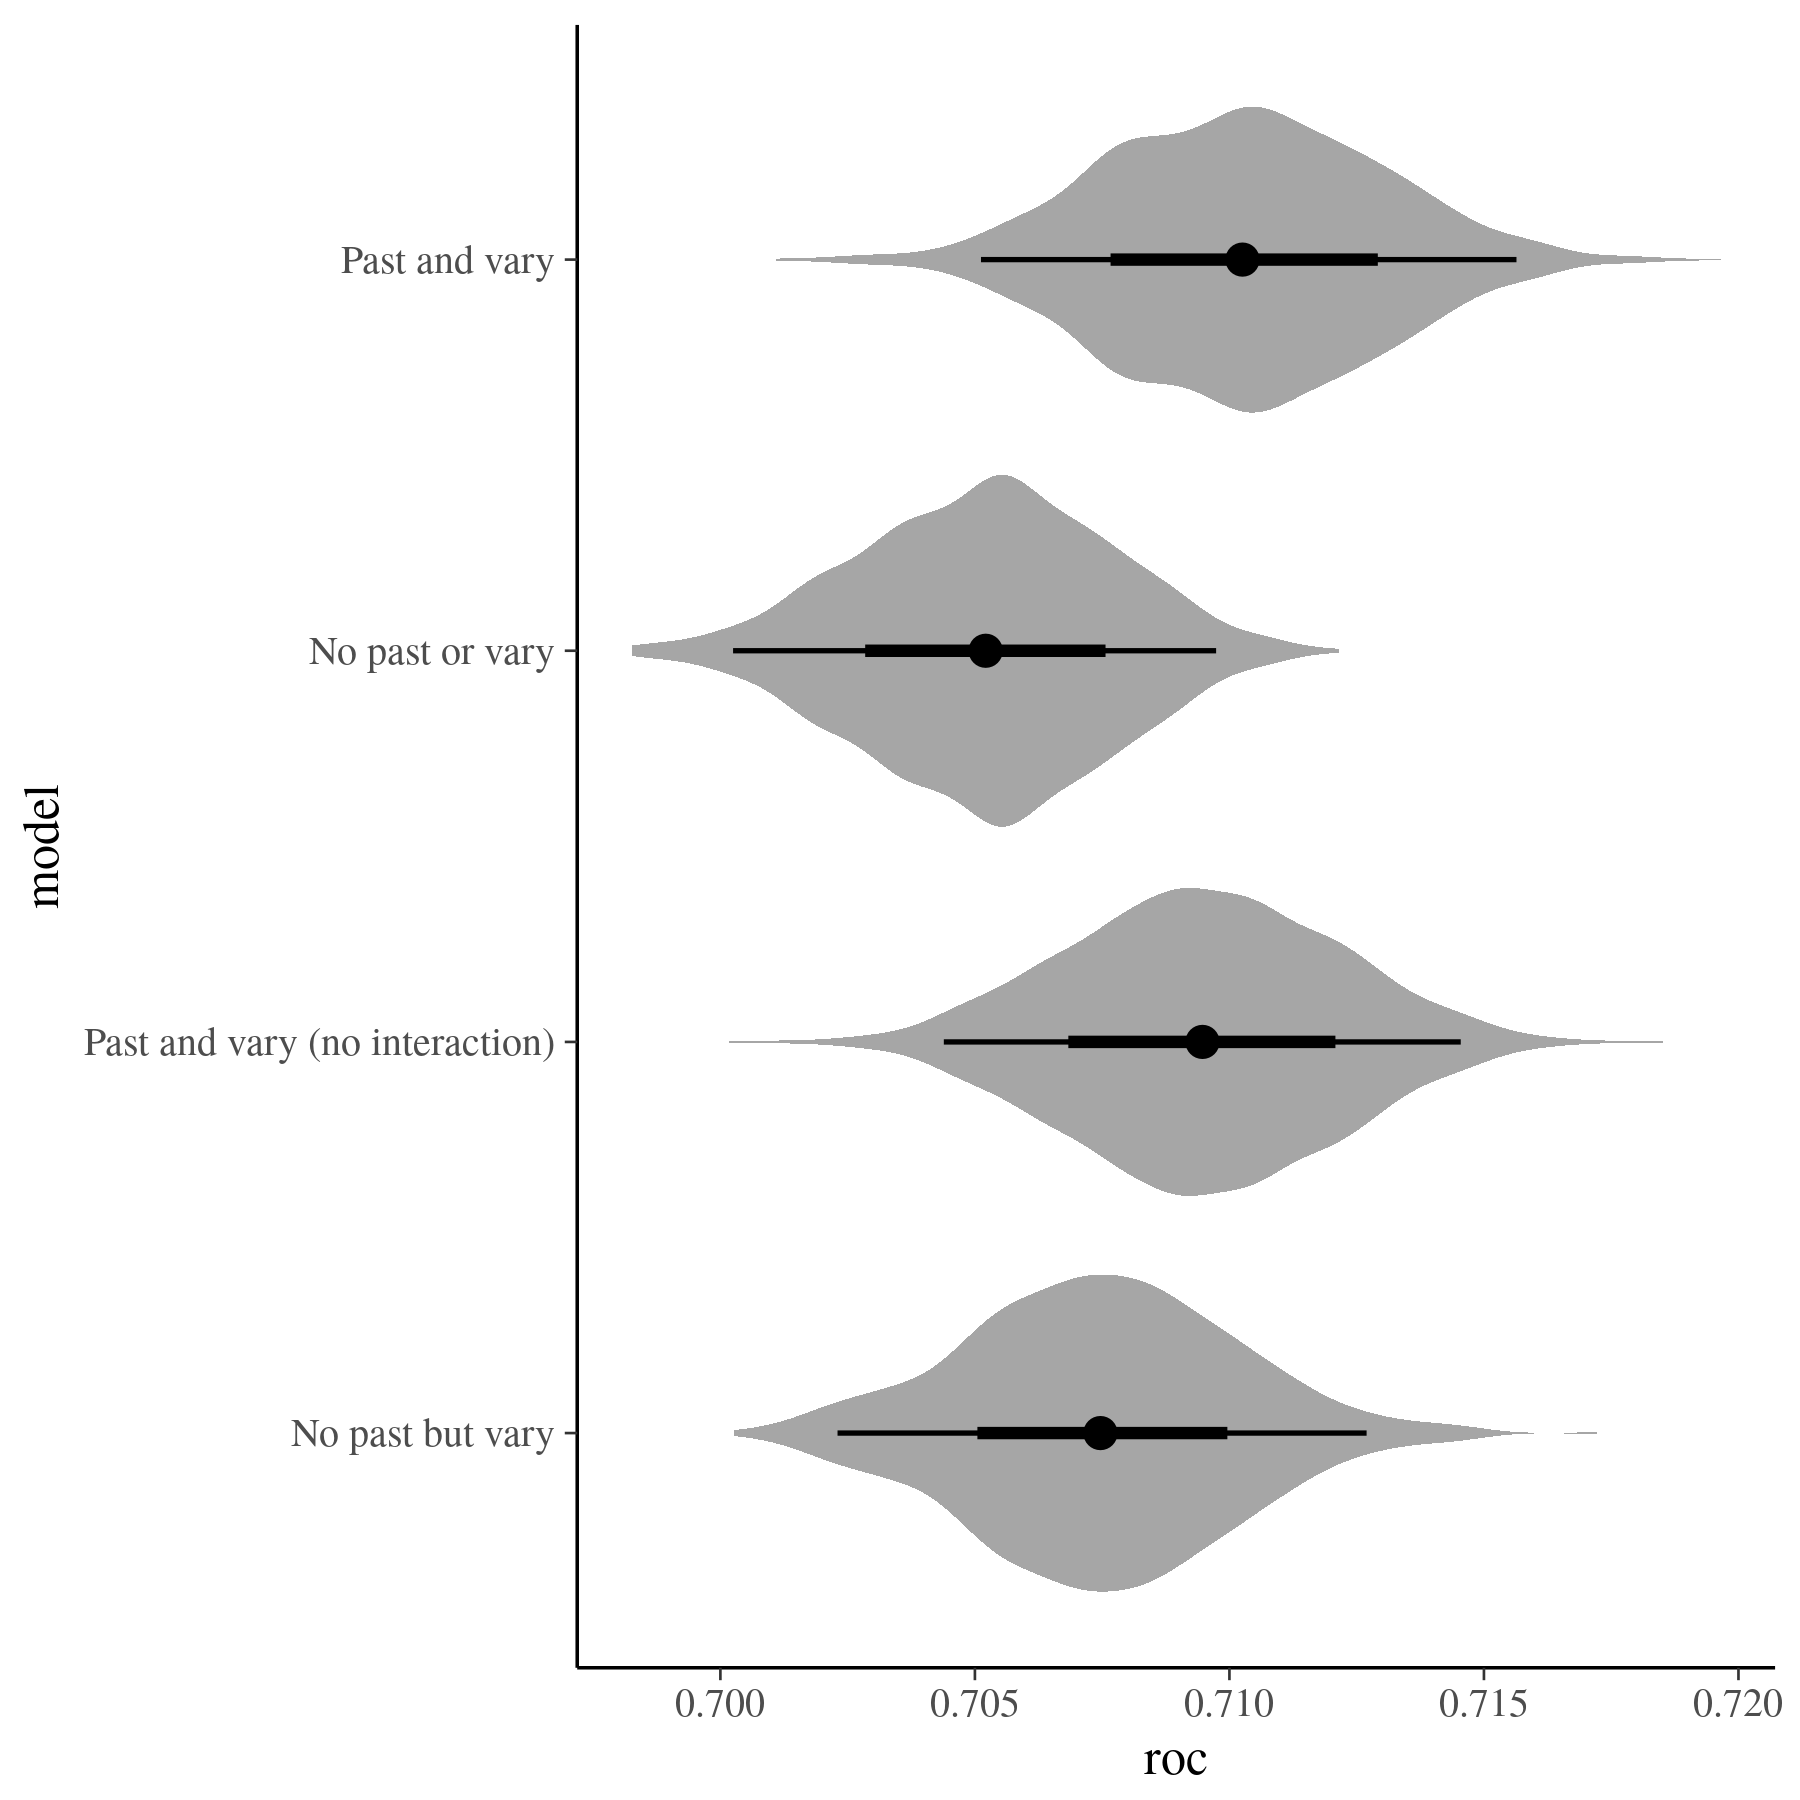
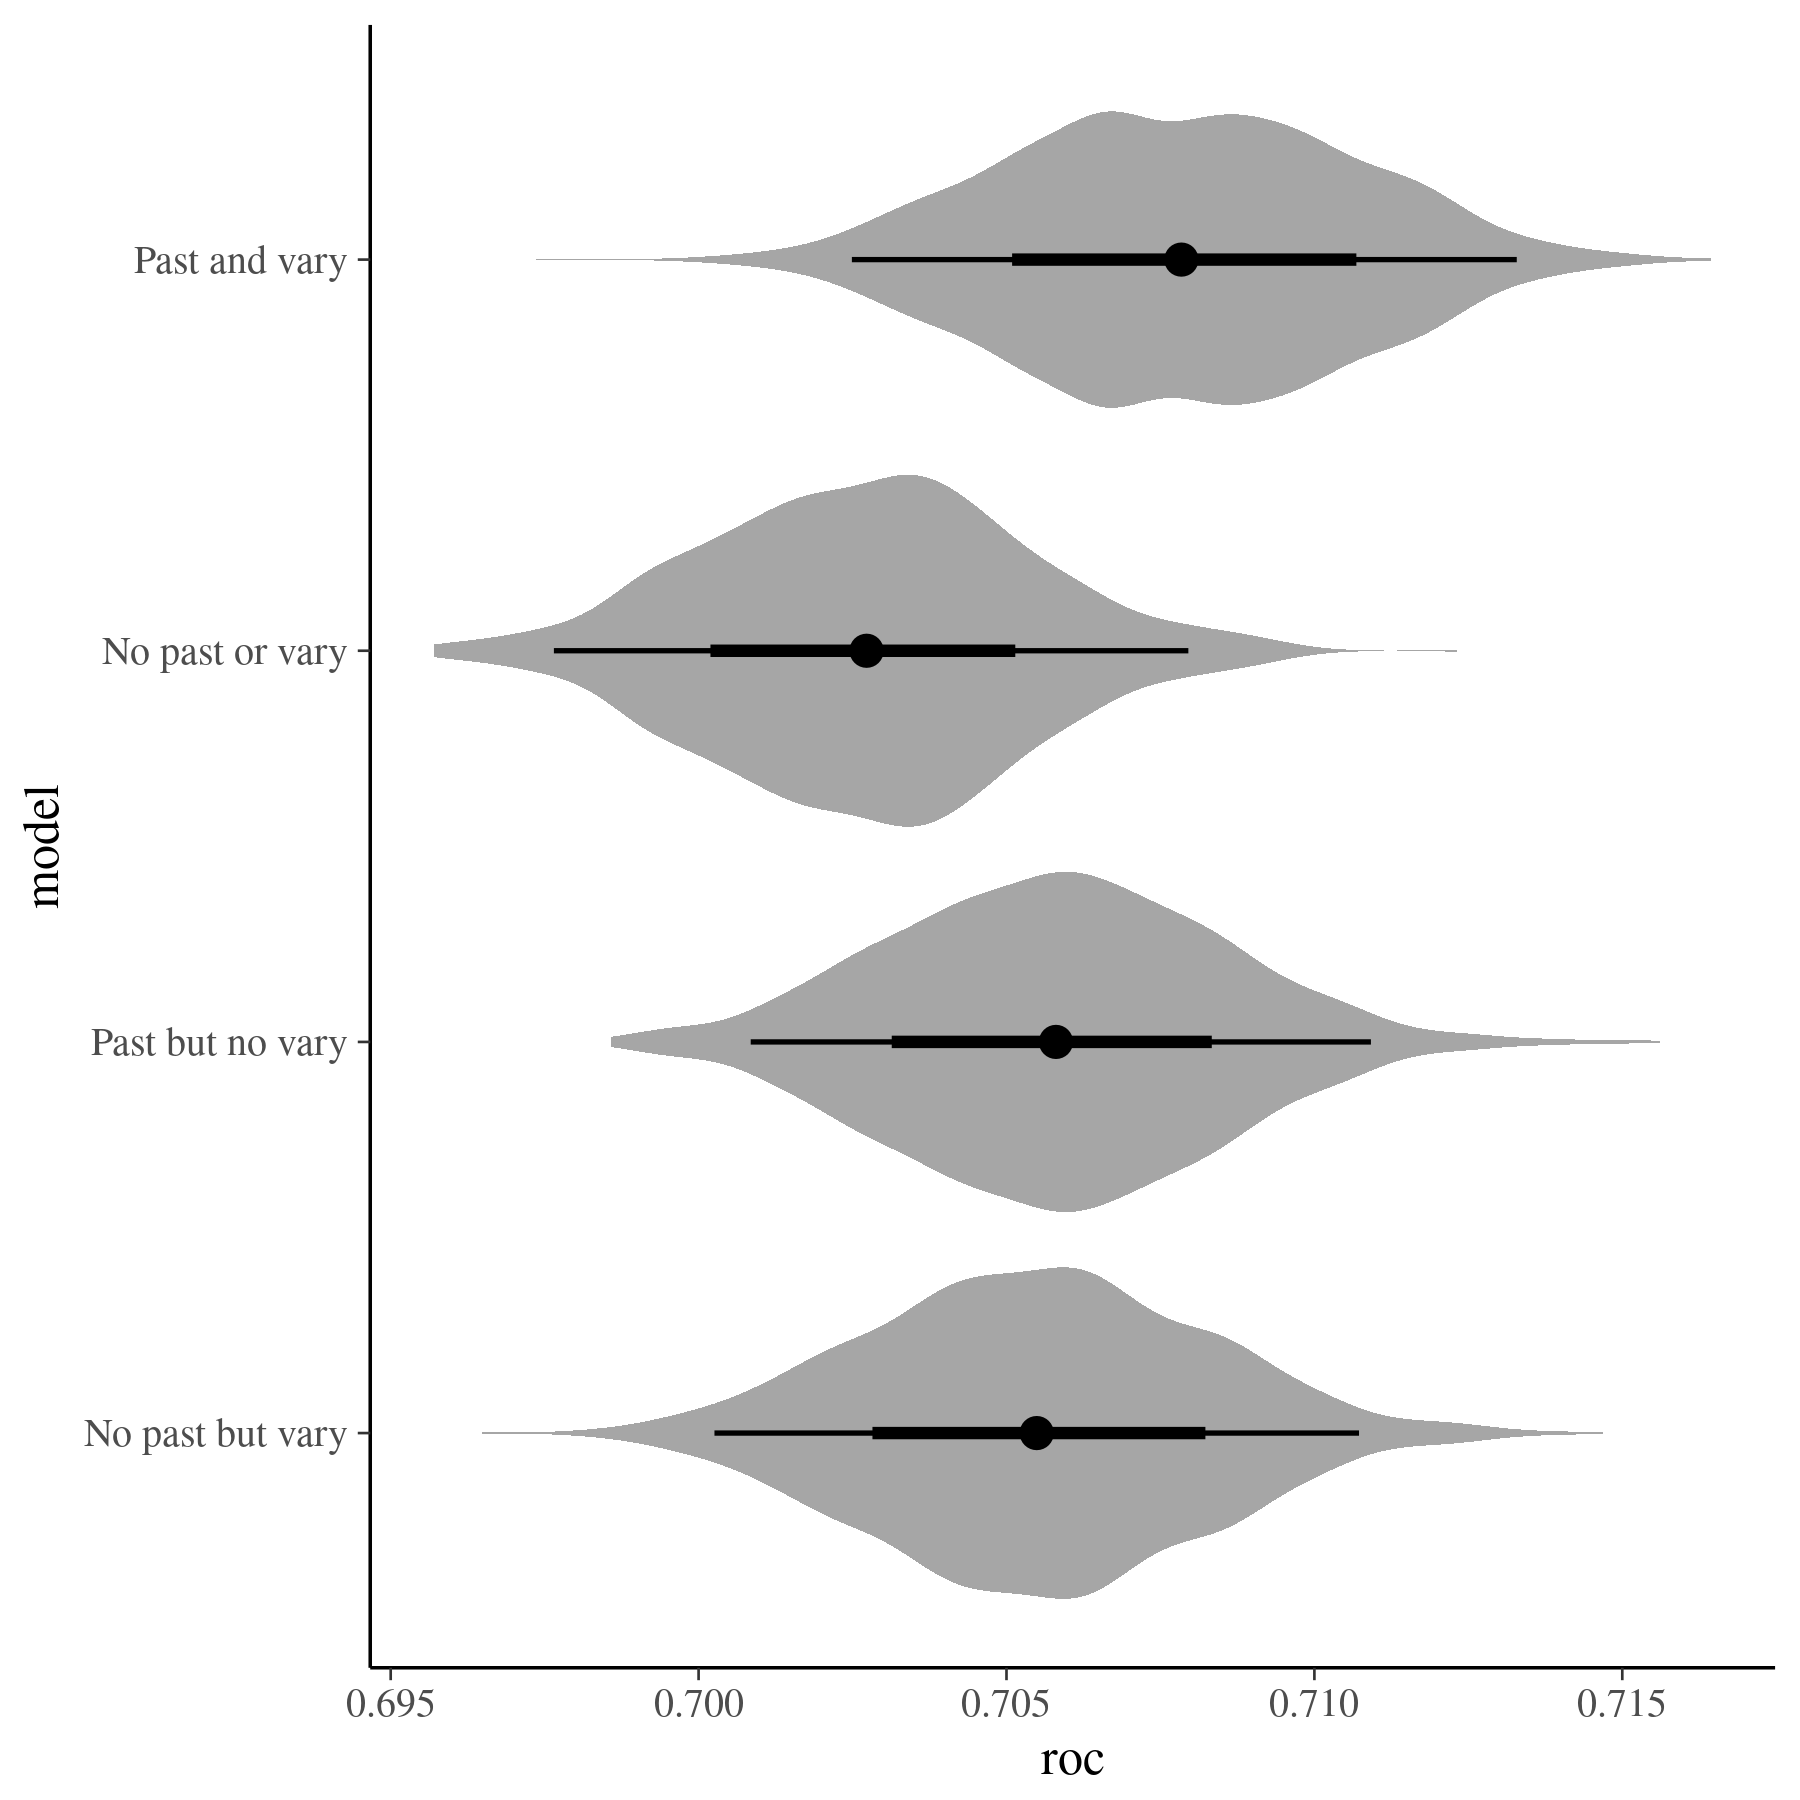
updated comparisons

diff --git a/doc/waic_tab_draft.tex b/doc/waic_tab_draft.tex
@@ -1,15 +1,15 @@
-% latex table generated in R 3.5.0 by xtable 1.8-2 package
-% Tue Jul  3 12:06:36 2018
+% latex table generated in R 3.5.1 by xtable 1.8-2 package
+% Mon Jul 30 10:26:01 2018
 \begin{table}[ht]
 \centering
 \begin{tabular}{rrrrrrrr}
   \hline
  & elpd\_diff & elpd\_waic & se\_elpd\_waic & p\_waic & se\_p\_waic & waic & se\_waic \\ 
   \hline
-Past and vary & 0.00 & -6400.45 & 89.61 & 278.82 & 5.25 & 12800.90 & 179.22 \\ 
-  Past and vary (no interaction) & -4.44 & -6404.89 & 89.61 & 257.56 & 4.80 & 12809.79 & 179.22 \\ 
-  No past but vary & -15.40 & -6415.85 & 89.62 & 216.12 & 4.00 & 12831.70 & 179.25 \\ 
-  No past or vary & -23.51 & -6423.96 & 89.67 & 176.92 & 3.23 & 12847.93 & 179.34 \\ 
+Past and vary & 0.00 & -6405.39 & 89.61 & 258.75 & 4.81 & 12810.79 & 179.22 \\ 
+  No past but vary & -10.14 & -6415.54 & 89.63 & 216.92 & 4.03 & 12831.08 & 179.26 \\ 
+  Past but no vary & -11.04 & -6416.44 & 89.64 & 217.99 & 4.03 & 12832.88 & 179.28 \\ 
+  No past or vary & -19.27 & -6424.66 & 89.71 & 176.84 & 3.23 & 12849.33 & 179.42 \\ 
    \hline
 \end{tabular}
 \end{table}

diff --git a/doc/loo_tab_draft.tex b/doc/loo_tab_draft.tex
@@ -1,15 +1,15 @@
-% latex table generated in R 3.5.0 by xtable 1.8-2 package
-% Tue Jul  3 12:06:33 2018
+% latex table generated in R 3.5.1 by xtable 1.8-2 package
+% Mon Jul 30 10:21:35 2018
 \begin{table}[ht]
 \centering
 \begin{tabular}{rrrrrrrr}
   \hline
  & elpd\_diff & elpd\_loo & se\_elpd\_loo & p\_loo & se\_p\_loo & looic & se\_looic \\ 
   \hline
-Past and vary & 0.00 & -6402.79 & 89.65 & 281.17 & 5.30 & 12805.58 & 179.29 \\ 
-  Past and vary (no interaction) & -4.04 & -6406.83 & 89.64 & 259.50 & 4.83 & 12813.66 & 179.28 \\ 
-  No past but vary & -14.53 & -6417.32 & 89.65 & 217.59 & 4.03 & 12834.64 & 179.29 \\ 
-  No past or vary & -22.35 & -6425.14 & 89.69 & 178.10 & 3.25 & 12850.28 & 179.38 \\ 
+Past and vary & 0.00 & -6407.33 & 89.64 & 260.69 & 4.85 & 12814.66 & 179.28 \\ 
+  No past but vary & -9.70 & -6417.04 & 89.66 & 218.42 & 4.06 & 12834.07 & 179.31 \\ 
+  Past but no vary & -10.62 & -6417.95 & 89.66 & 219.50 & 4.06 & 12835.90 & 179.33 \\ 
+  No past or vary & -18.50 & -6425.84 & 89.73 & 178.01 & 3.25 & 12851.67 & 179.45 \\ 
    \hline
 \end{tabular}
 \end{table}
